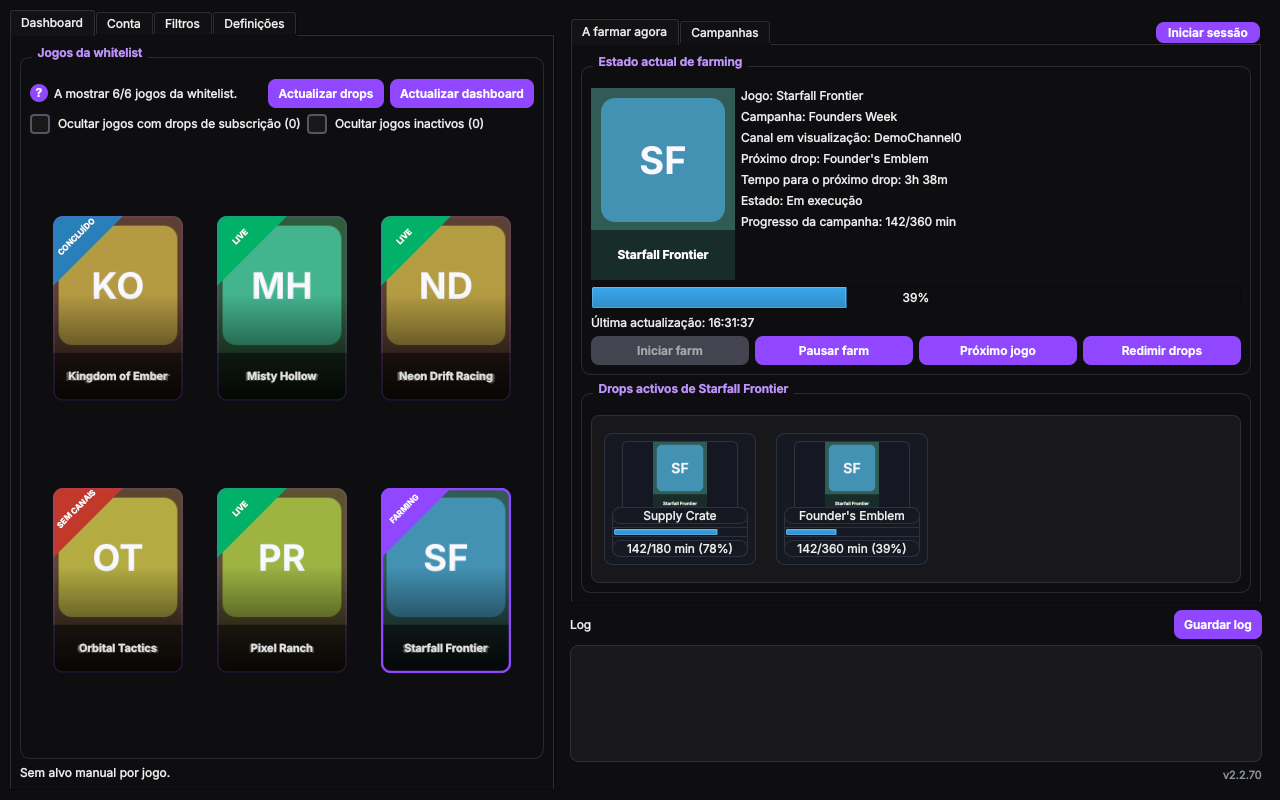
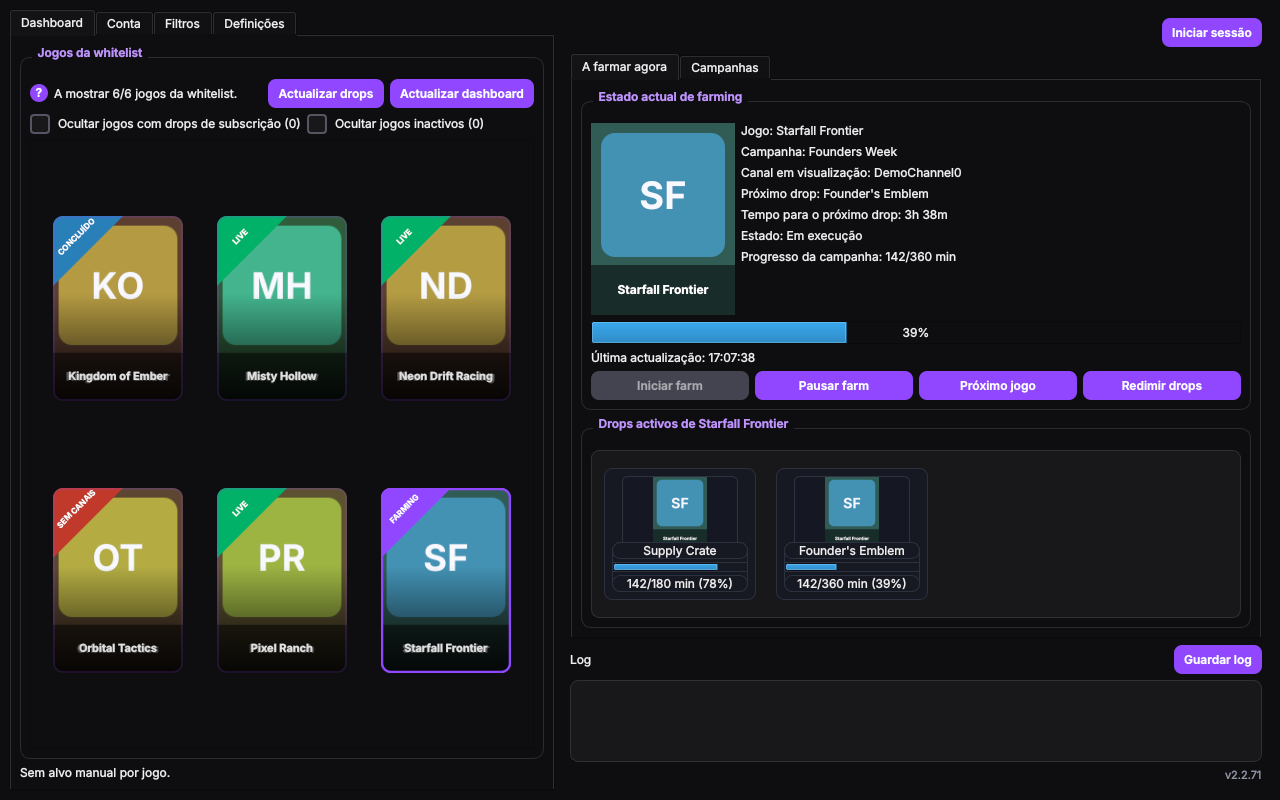
2.2.72: login button gets a row of its own above the right tabs
In the tab bar's corner it was squeezed to the bar's height and, on Windows (larger font / screen
scale), touched the pane's frame lines again after the 2.2.69 padding fix. It is now a normal
button in its own right-aligned row, with the layout's spacing around it. Tests measure the free
space to the tab widget's lines in both states, both languages and with a bigger font.

diff --git a/tests/test_buttons.py b/tests/test_buttons.py
@@ -937,12 +937,13 @@ class TestLoginButton(_WindowCase):
         self.window.config.remember_session = True
 
     # ---------------------------------------------------------------- the button itself
-    def test_the_button_sits_in_the_free_corner_next_to_the_right_tabs(self):
+    def test_the_button_has_a_row_of_its_own_above_the_right_tabs_not_the_tab_bars_corner(self):
+        """As the tab widget's corner widget it was squeezed into the tab bar and sat on the pane's frame lines."""
         w = self.window
-        corner = w.tabs_right.cornerWidget(Qt.Corner.TopRightCorner)
 
-        self.assertIs(corner, w.login_corner)  # a wrapper that centres the button in the tab bar's height
-        self.assertIs(w.btn_smart_login.parentWidget(), corner)
+        self.assertIsNone(w.tabs_right.cornerWidget(Qt.Corner.TopRightCorner))
+        self.assertIsNone(w.tabs_right.cornerWidget(Qt.Corner.TopLeftCorner))
+        self.assertIs(w.btn_smart_login.parentWidget(), w.tabs_right.parentWidget())  # same panel, outside the tabs
 
     def test_the_button_says_log_in_and_then_who_is_signed_in(self):
         w = self.window
@@ -2082,37 +2083,47 @@ class TestButtonsAreNotClipped(_WindowCase):
         for _ in range(4):
             self.app.processEvents()
 
-    def corner_geometry(self) -> dict[str, int]:
+    def placement(self) -> dict[str, int]:
+        """Where the button is, relative to the tab widget below it (window coordinates)."""
         from PySide6.QtCore import QPoint
 
         w = self.window
-        button, bar = w.btn_smart_login, w.tabs_right.tabBar()
-        top = button.mapTo(w.tabs_right, QPoint(0, 0)).y()
-        bar_top = bar.mapTo(w.tabs_right, QPoint(0, 0)).y()
+        button, tabs = w.btn_smart_login, w.tabs_right
+        b = button.mapTo(w, QPoint(0, 0))
+        t = tabs.mapTo(w, QPoint(0, 0))
         return {
-            "above": bar_top - top,  # > 0: pokes out above the tab bar
-            "below": top + button.height() - (bar_top + bar.height()),  # > 0: pokes out below, onto the pane's frame
-            "right_edge_gap": w.tabs_right.width() - (button.mapTo(w.tabs_right, QPoint(0, 0)).x() + button.width()),
+            "gap_to_tabs": t.y() - (b.y() + button.height()),  # free space between the button and the tab widget
+            "right_gap": (t.x() + tabs.width()) - (b.x() + button.width()),  # to the right edge of the panel
+            "left_gap": b.x() - t.x(),
+            "top": b.y(),
         }
 
-    def test_the_signed_in_button_stays_inside_the_tab_bar_and_off_the_frame_lines(self):
-        """It was taller than the bar: it stuck out above and below, over the top line of the pane."""
+    MIN_GAP = 4  # px of free space between the button and the lines of the tab widget
+
+    def test_the_signed_in_button_is_clear_of_the_tab_widgets_lines(self):
+        """It sat on top of the frame lines (and then touched them); now it has a row and the layout's spacing."""
         self.settle()
 
-        geometry = self.corner_geometry()
+        where = self.placement()
 
-        self.assertLessEqual(geometry["above"], 0, geometry)
-        self.assertLessEqual(geometry["below"], 0, geometry)
-        self.assertGreaterEqual(geometry["right_edge_gap"], 0, geometry)
+        self.assertGreaterEqual(where["gap_to_tabs"], self.MIN_GAP, where)
+        self.assertGreaterEqual(where["top"], 0, where)  # not pushed out of the window either
+
+    def test_it_stays_inside_the_panel_on_the_right_without_touching_its_edge_line(self):
+        self.settle()
+
+        where = self.placement()
+
+        self.assertGreaterEqual(where["right_gap"], 0, where)
+        self.assertGreater(where["left_gap"], 0, where)
 
     def test_the_whole_name_is_visible(self):
         self.settle()
         w = self.window
 
         self.assertGreaterEqual(w.btn_smart_login.width(), w.btn_smart_login.sizeHint().width())
-        self.assertGreaterEqual(w.login_corner.width(), w.btn_smart_login.width())
 
-    def test_the_button_stays_inside_the_bar_in_both_states_and_both_languages(self):
+    def test_it_is_clear_of_the_lines_in_both_states_and_both_languages(self):
         w = self.window
         for language in ("en", "pt_PT"):
             w.language_picker.setCurrentIndex(w.language_picker.findData(language))
@@ -2123,16 +2134,22 @@ class TestButtonsAreNotClipped(_WindowCase):
                 )
                 w._update_auth_status()
                 self.settle()
-                geometry = self.corner_geometry()
-                self.assertLessEqual(geometry["above"], 0, (language, logged, geometry))
-                self.assertLessEqual(geometry["below"], 0, (language, logged, geometry))
+                where = self.placement()
+                self.assertGreaterEqual(where["gap_to_tabs"], self.MIN_GAP, (language, logged, where))
+                self.assertGreaterEqual(where["right_gap"], 0, (language, logged, where))
 
-    def test_the_slimmer_button_is_still_as_tall_as_its_text_needs(self):
-        """Fitting the bar must not bring the clipping back (the bottom of the letters)."""
+    def test_the_button_keeps_the_height_its_text_needs(self):
+        """No squeezing: the bottom of letters like "g" must not be cut."""
         self.settle()
         w = self.window
 
         self.assertGreaterEqual(w.btn_smart_login.height(), w.btn_smart_login.sizeHint().height())
+
+    def test_it_is_as_tall_as_the_other_buttons_so_it_looks_like_one_of_them(self):
+        self.settle()
+        w = self.window
+
+        self.assertEqual(w.btn_smart_login.height(), w.btn_save_log.height())
 
     def test_it_still_holds_with_a_bigger_font_as_on_another_machine(self):
         """The height a button needs depends on the font of the machine; a fixed number would clip it there.
@@ -2164,9 +2181,8 @@ class TestButtonsAreNotClipped(_WindowCase):
         self.settle()
 
         self.assertEqual(self.clipped_buttons(), [])
-        geometry = self.corner_geometry()
-        self.assertLessEqual(geometry["above"], 0, geometry)  # the bar grows with the font, the button follows
-        self.assertLessEqual(geometry["below"], 0, geometry)
+        where = self.placement()
+        self.assertGreaterEqual(where["gap_to_tabs"], self.MIN_GAP, where)  # a bigger font moves the tabs down with it
 
     def test_it_holds_in_english_and_in_every_theme(self):
         w = self.window

diff --git a/src/twitch_drop_farmer/ui.py b/src/twitch_drop_farmer/ui.py
@@ -2908,19 +2908,17 @@ class MainWindow(QMainWindow):
 
         self.tabs_right.addTab(farming_tab, "")
         self.tabs_right.addTab(campaigns_tab, "")
-        # The free corner next to the tabs: one click signs in (or opens the window that explains how).
+        # One click signs in (or opens the window that explains how). It has a row of its own above the tabs:
+        # as the tab widget's corner widget it was squeezed into the tab bar's height and sat on the frame
+        # lines of the pane, and no padding fixes that on every machine (the bar's height depends on the
+        # font and the screen scale). In a layout row it keeps its normal height and the layout's spacing.
         self.btn_smart_login = QPushButton()
         self.btn_smart_login.clicked.connect(self.handle_smart_login)
-        # A themed button (7px of padding) is a little taller than the tab bar, so it poked out above and
-        # below it and sat on top of the frame lines of the pane. A slimmer padding keeps it inside the bar;
-        # the wrapper centres it vertically in whatever height the bar has on this machine.
-        self.btn_smart_login.setStyleSheet("padding: 3px 12px;")
-        self.login_corner = QWidget()
-        corner_layout = QHBoxLayout(self.login_corner)
-        corner_layout.setContentsMargins(8, 0, 2, 0)
-        corner_layout.setSpacing(0)
-        corner_layout.addWidget(self.btn_smart_login, 0, Qt.AlignmentFlag.AlignVCenter)
-        self.tabs_right.setCornerWidget(self.login_corner, Qt.Corner.TopRightCorner)
+        account_row = QHBoxLayout()
+        account_row.setContentsMargins(0, 0, 0, 0)
+        account_row.addStretch(1)
+        account_row.addWidget(self.btn_smart_login)
+        vbox.addLayout(account_row)
         vbox.addWidget(self.tabs_right, 3)
         log_row = QHBoxLayout()
         log_row.addWidget(self.log_label)
@@ -3058,18 +3056,6 @@ class MainWindow(QMainWindow):
             self.btn_login.setEnabled(True)
         self.btn_edit_oauth.setEnabled(bool(self.client.login_state.oauth_token))
 
-    @staticmethod
-    def _fit_button_height(button: QPushButton) -> None:
-        """Make sure a button is at least as tall as its text needs.
-
-        A tab widget squeezes its corner widget to the height of the tab bar, which is a few pixels
-        less than a themed button needs, and the bottom of letters like "g" got cut off. What a
-        button needs depends on the font of the machine it runs on, so it is asked, not guessed.
-        """
-        needed = button.sizeHint().height()
-        if button.minimumHeight() != needed:
-            button.setMinimumHeight(needed)
-
     def _refresh_login_button(self) -> None:
         state = self.client.login_state
         if state.logged_in:
@@ -3079,7 +3065,6 @@ class MainWindow(QMainWindow):
         else:
             self.btn_smart_login.setText(self._t("login_button"))
             self.btn_smart_login.setToolTip(self._t("login_button_tip_out"))
-        self._fit_button_height(self.btn_smart_login)
 
     def _update_auth_status(self) -> None:
         self._refresh_login_button()
@@ -3445,8 +3430,6 @@ class MainWindow(QMainWindow):
 
     def _apply_theme(self, name: str) -> None:
         self.setStyleSheet(THEMES.get(name, THEMES["twitch"]))
-        if hasattr(self, "btn_smart_login"):
-            self._fit_button_height(self.btn_smart_login)
 
     def _with_errors(self, fn: Callable[[], None]) -> None:
         try:

diff --git a/src/twitch_drop_farmer/__init__.py b/src/twitch_drop_farmer/__init__.py
@@ -1,4 +1,4 @@
 """Desktop Twitch drop farmer."""
 
 __all__ = ["__version__"]
-__version__ = "2.2.71"
+__version__ = "2.2.72"

diff --git a/CHANGELOG.md b/CHANGELOG.md
@@ -6,6 +6,20 @@ The format is based on Keep a Changelog, and this project follows Semantic Versi
 
 ## [Unreleased]
 
+## [2.2.72] - 2026-11-14
+
+### Fixed
+
+- **O botão «Sessão: …» continuava encostado às linhas do layout.** A 2.2.69 encolheu-o e centrou-o na
+  barra dos separadores, mas no Windows (letra e escala do ecrã maiores) a barra é tão alta como o botão e
+  ele voltava a tocar na linha de baixo e na da direita. Nenhum *padding* resolve isto em todas as máquinas,
+  porque a altura da barra depende do tipo de letra e da escala. O botão deixou de ser o «canto» da barra:
+  tem agora **uma linha própria acima dos separadores**, alinhada à direita, com a altura normal dos outros
+  botões e o espaçamento do layout à volta. Os testes medem o espaço livre até à linha dos separadores, nos
+  dois estados (com e sem sessão), em PT e EN e com um tipo de letra maior, e falham se o botão voltar ao canto.
+- Removido o ajuste de altura que só existia por causa do canto (`_fit_button_height`). Capturas de ecrã
+  do README refeitas.
+
 ## [2.2.71] - 2026-11-14
 
 Preparação para tornar o repositório público: nada de pessoal no código, README novo e capturas de ecrã
